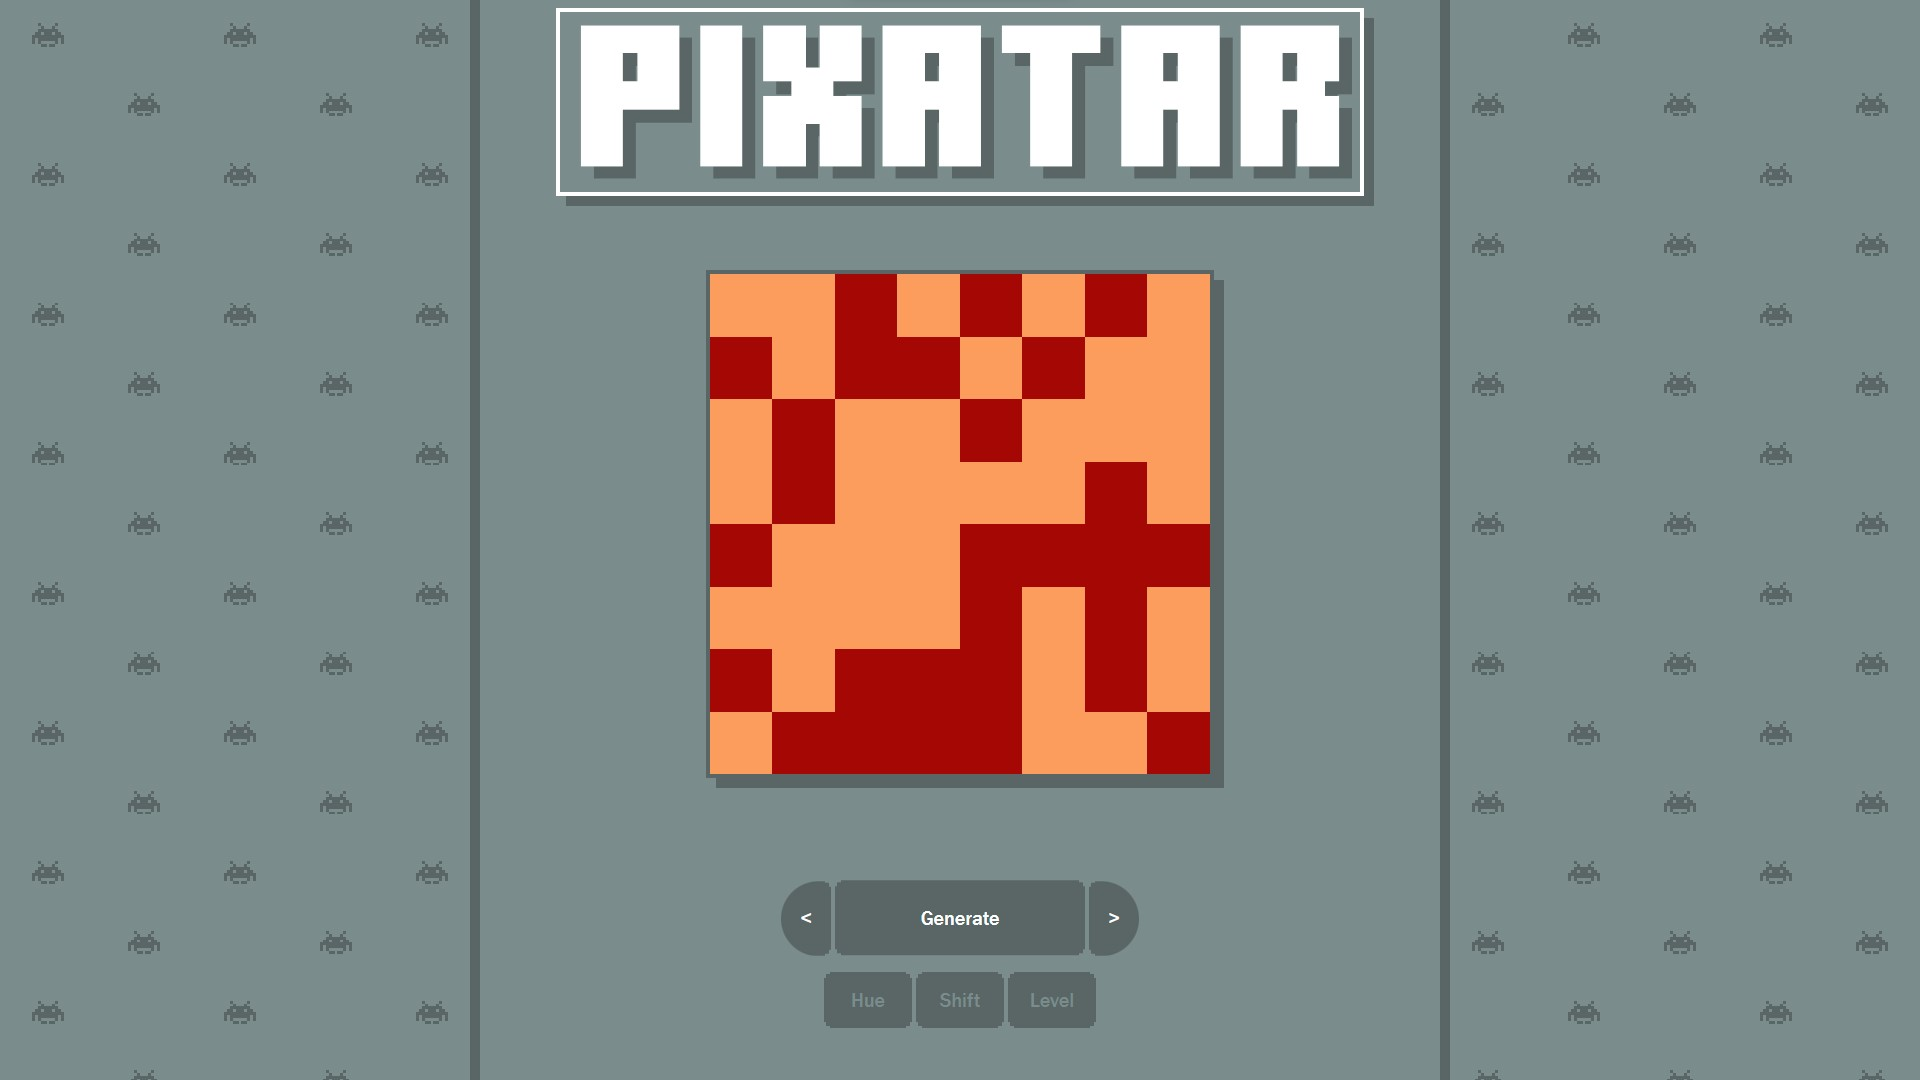
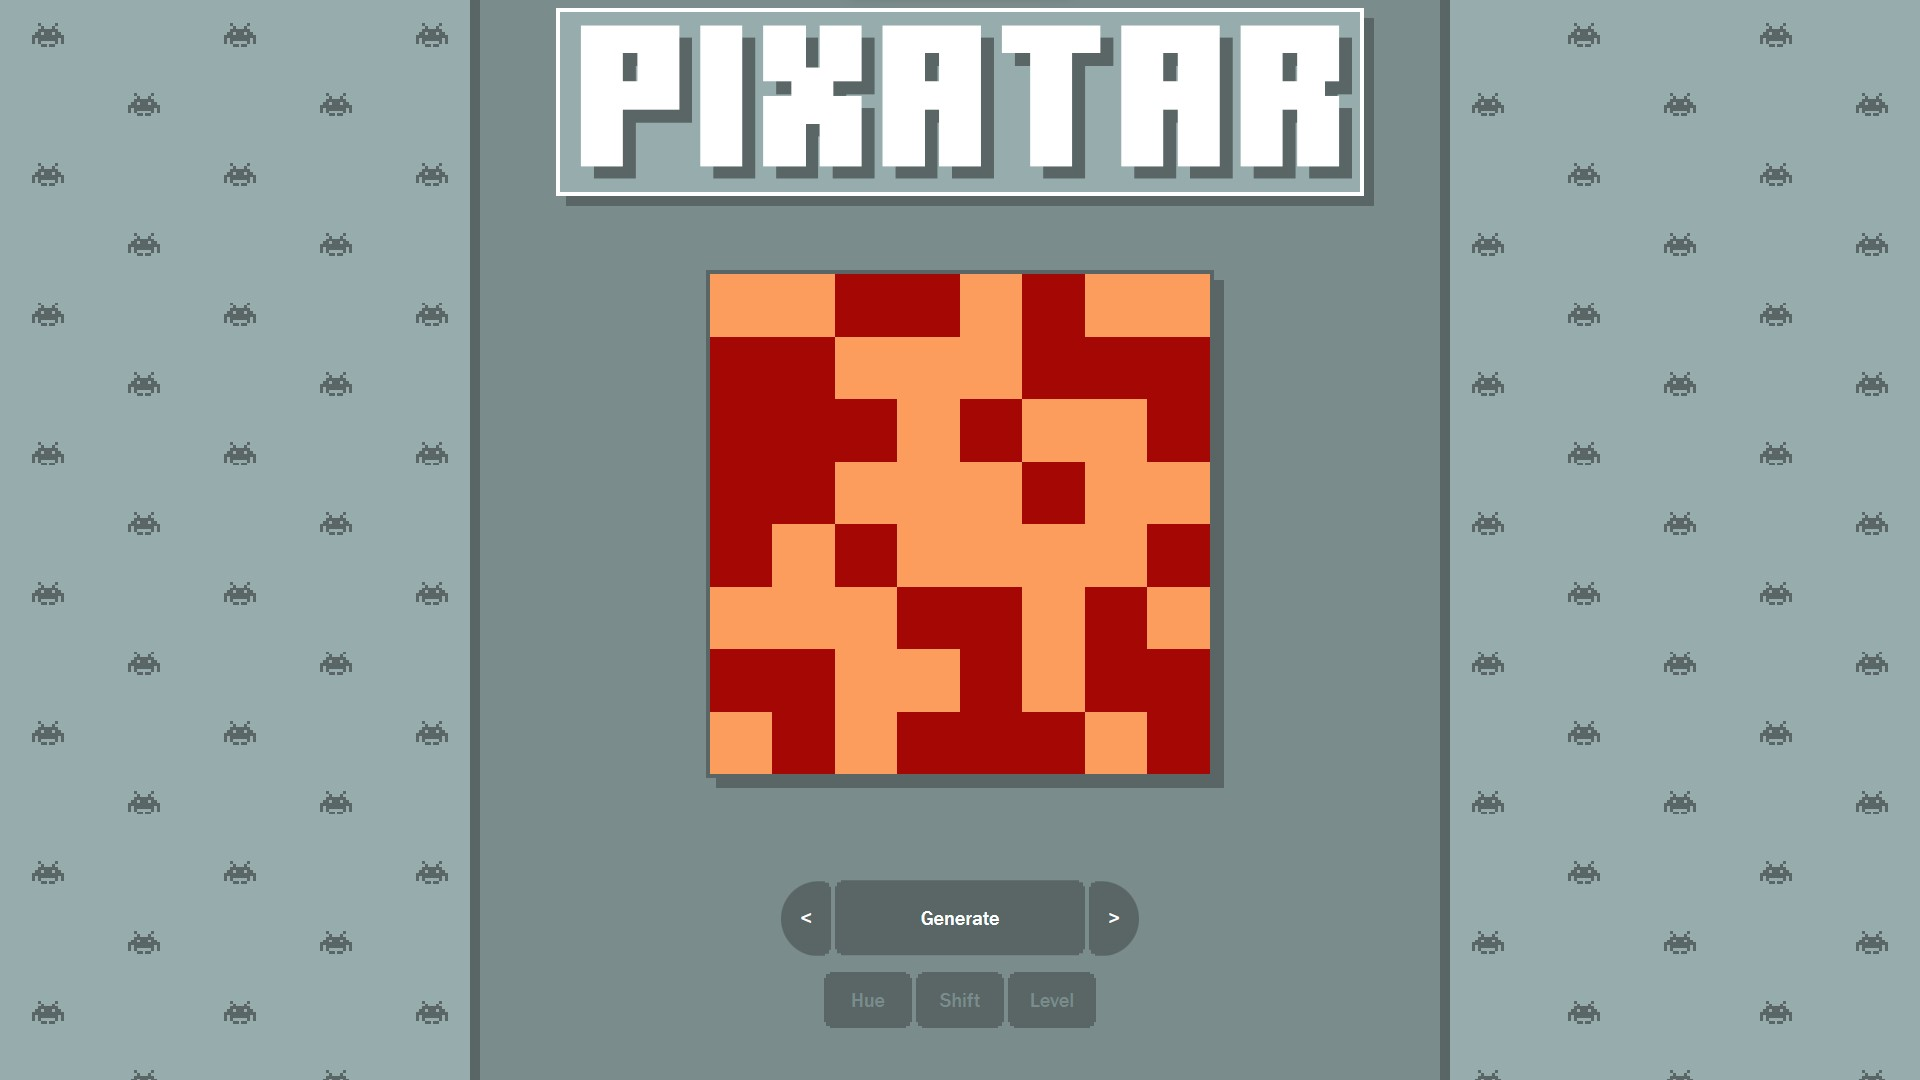
Updated interface

diff --git a/main.css b/main.css
@@ -1,5 +1,5 @@
 body, html {
-    background-color: #798C8C;
+    background-color: #96adad;
     background-image: url(Assets/background.png);
     background-size: 10%;
     image-rendering: pixelated;
@@ -14,6 +14,7 @@ body, html {
     image-rendering: pixelated;
     box-shadow: 10px 10px #586666;
     border: 4px solid white;
+    background-color: #96adad;
 }
 
 #canvas {
